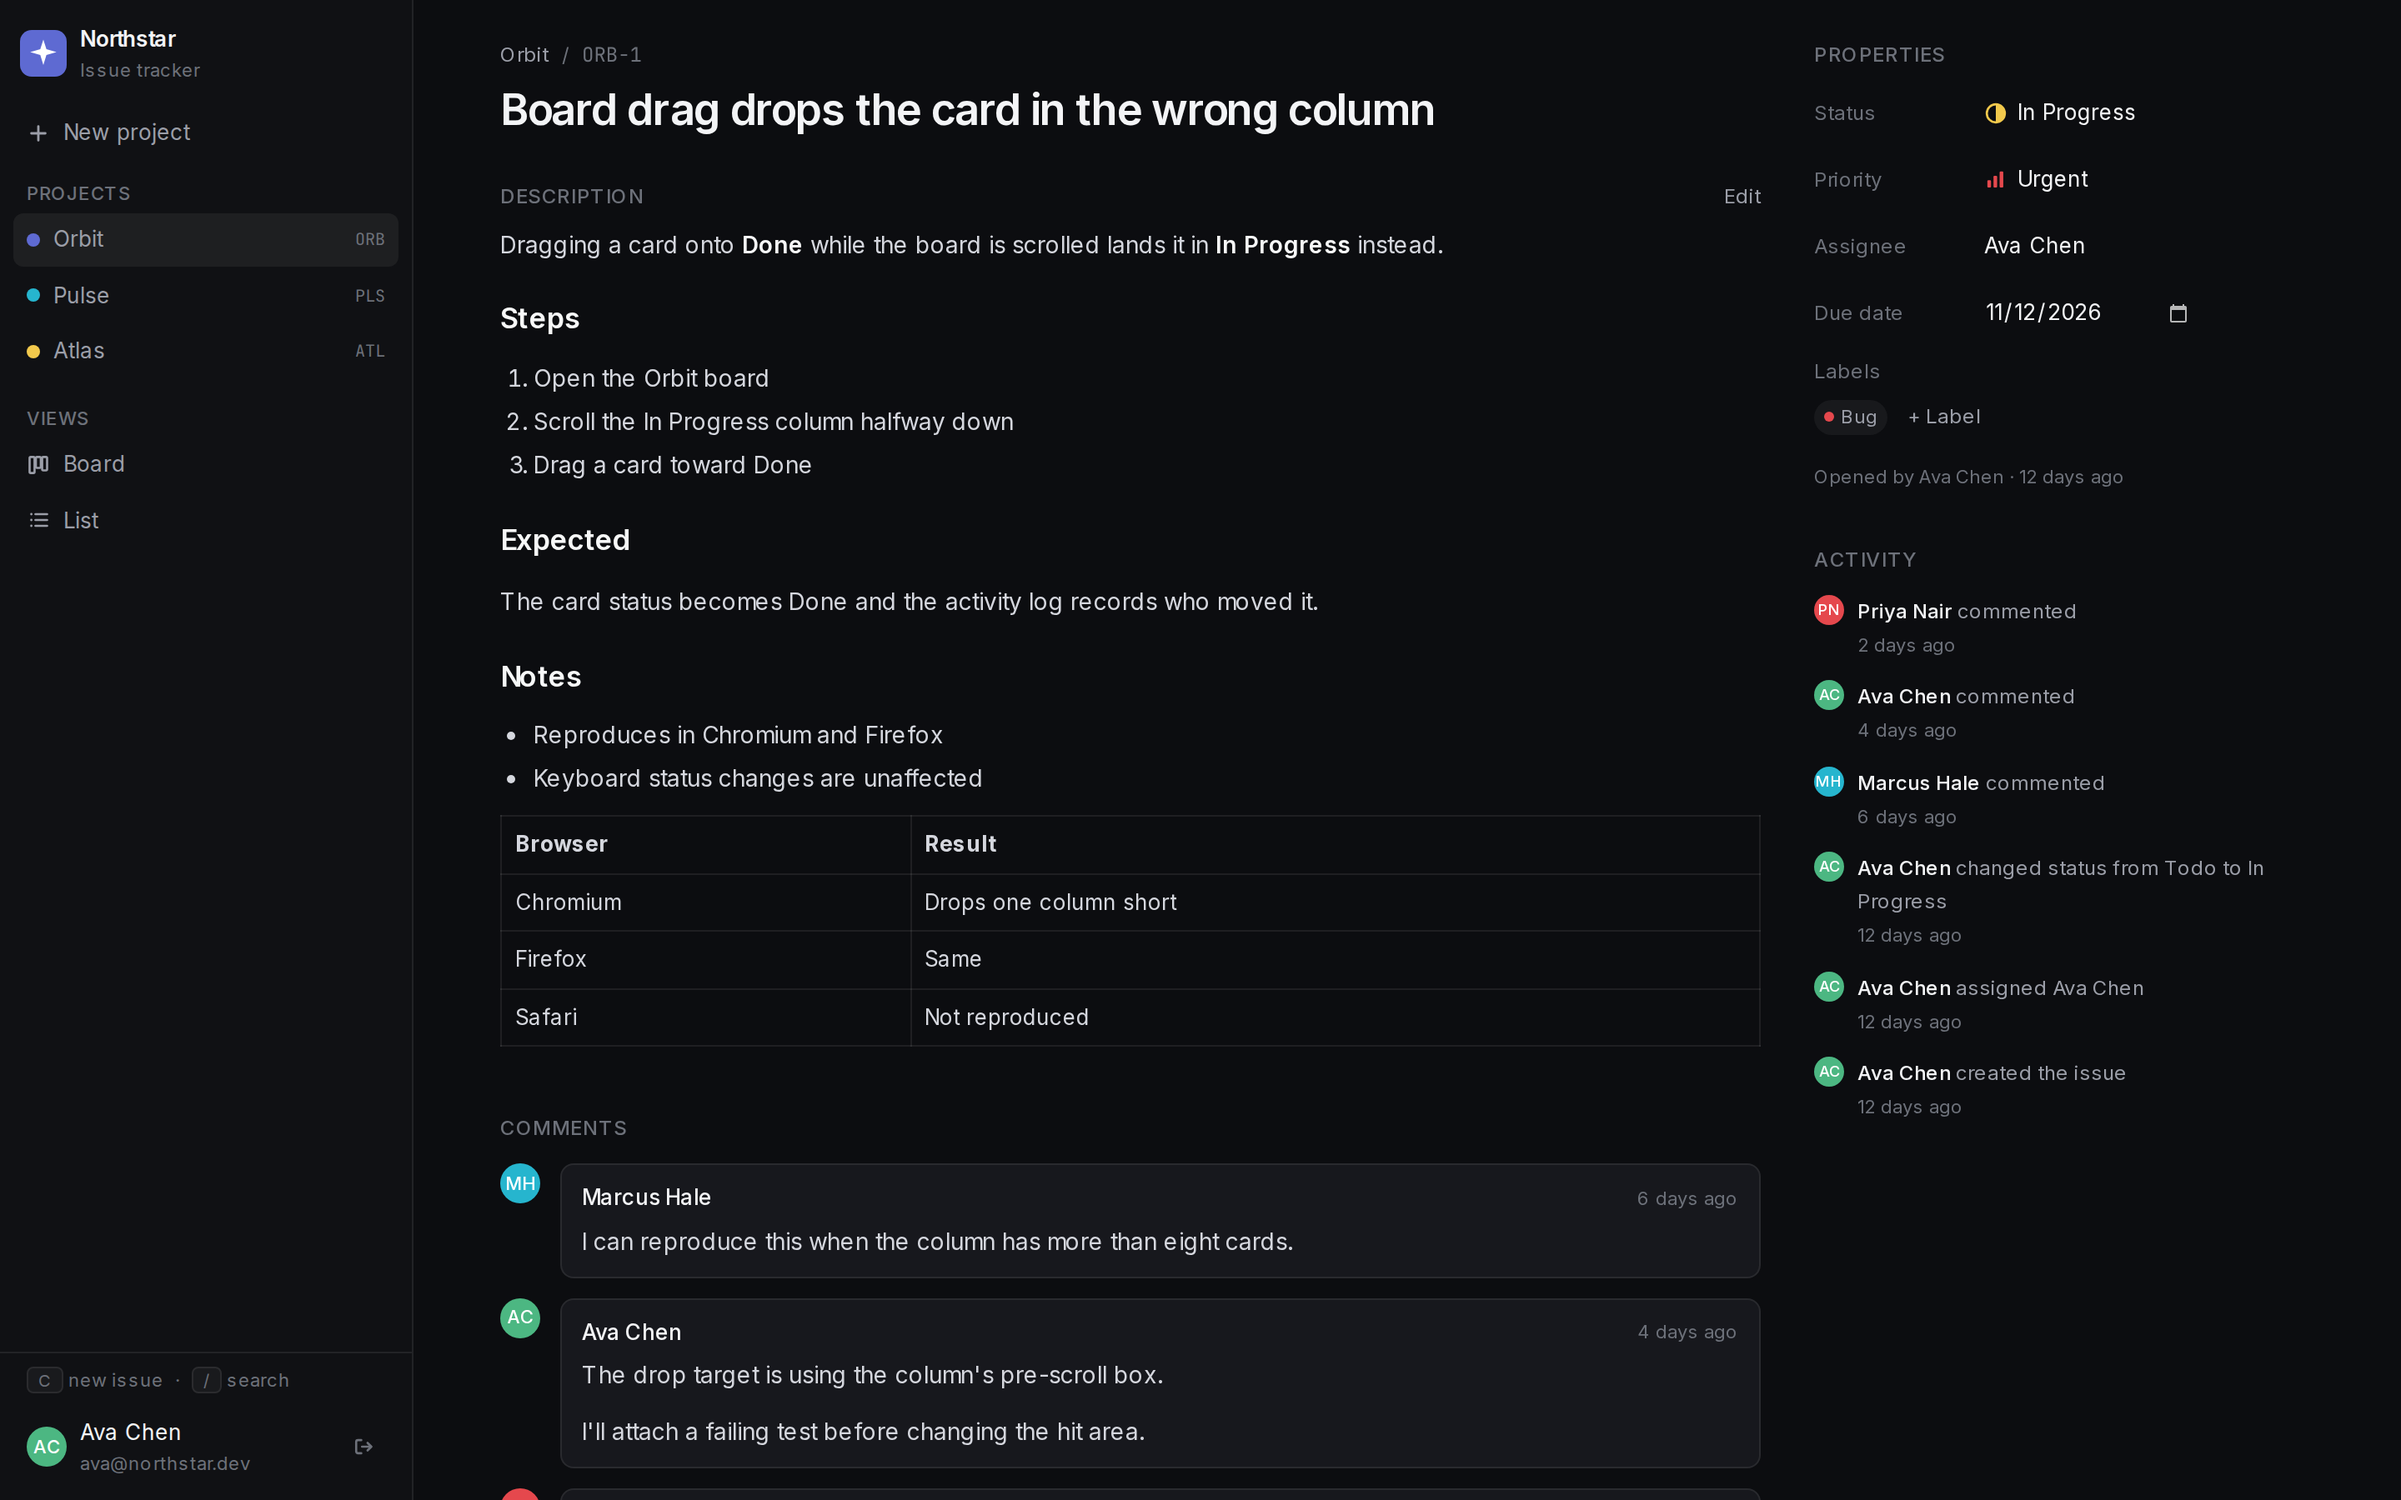
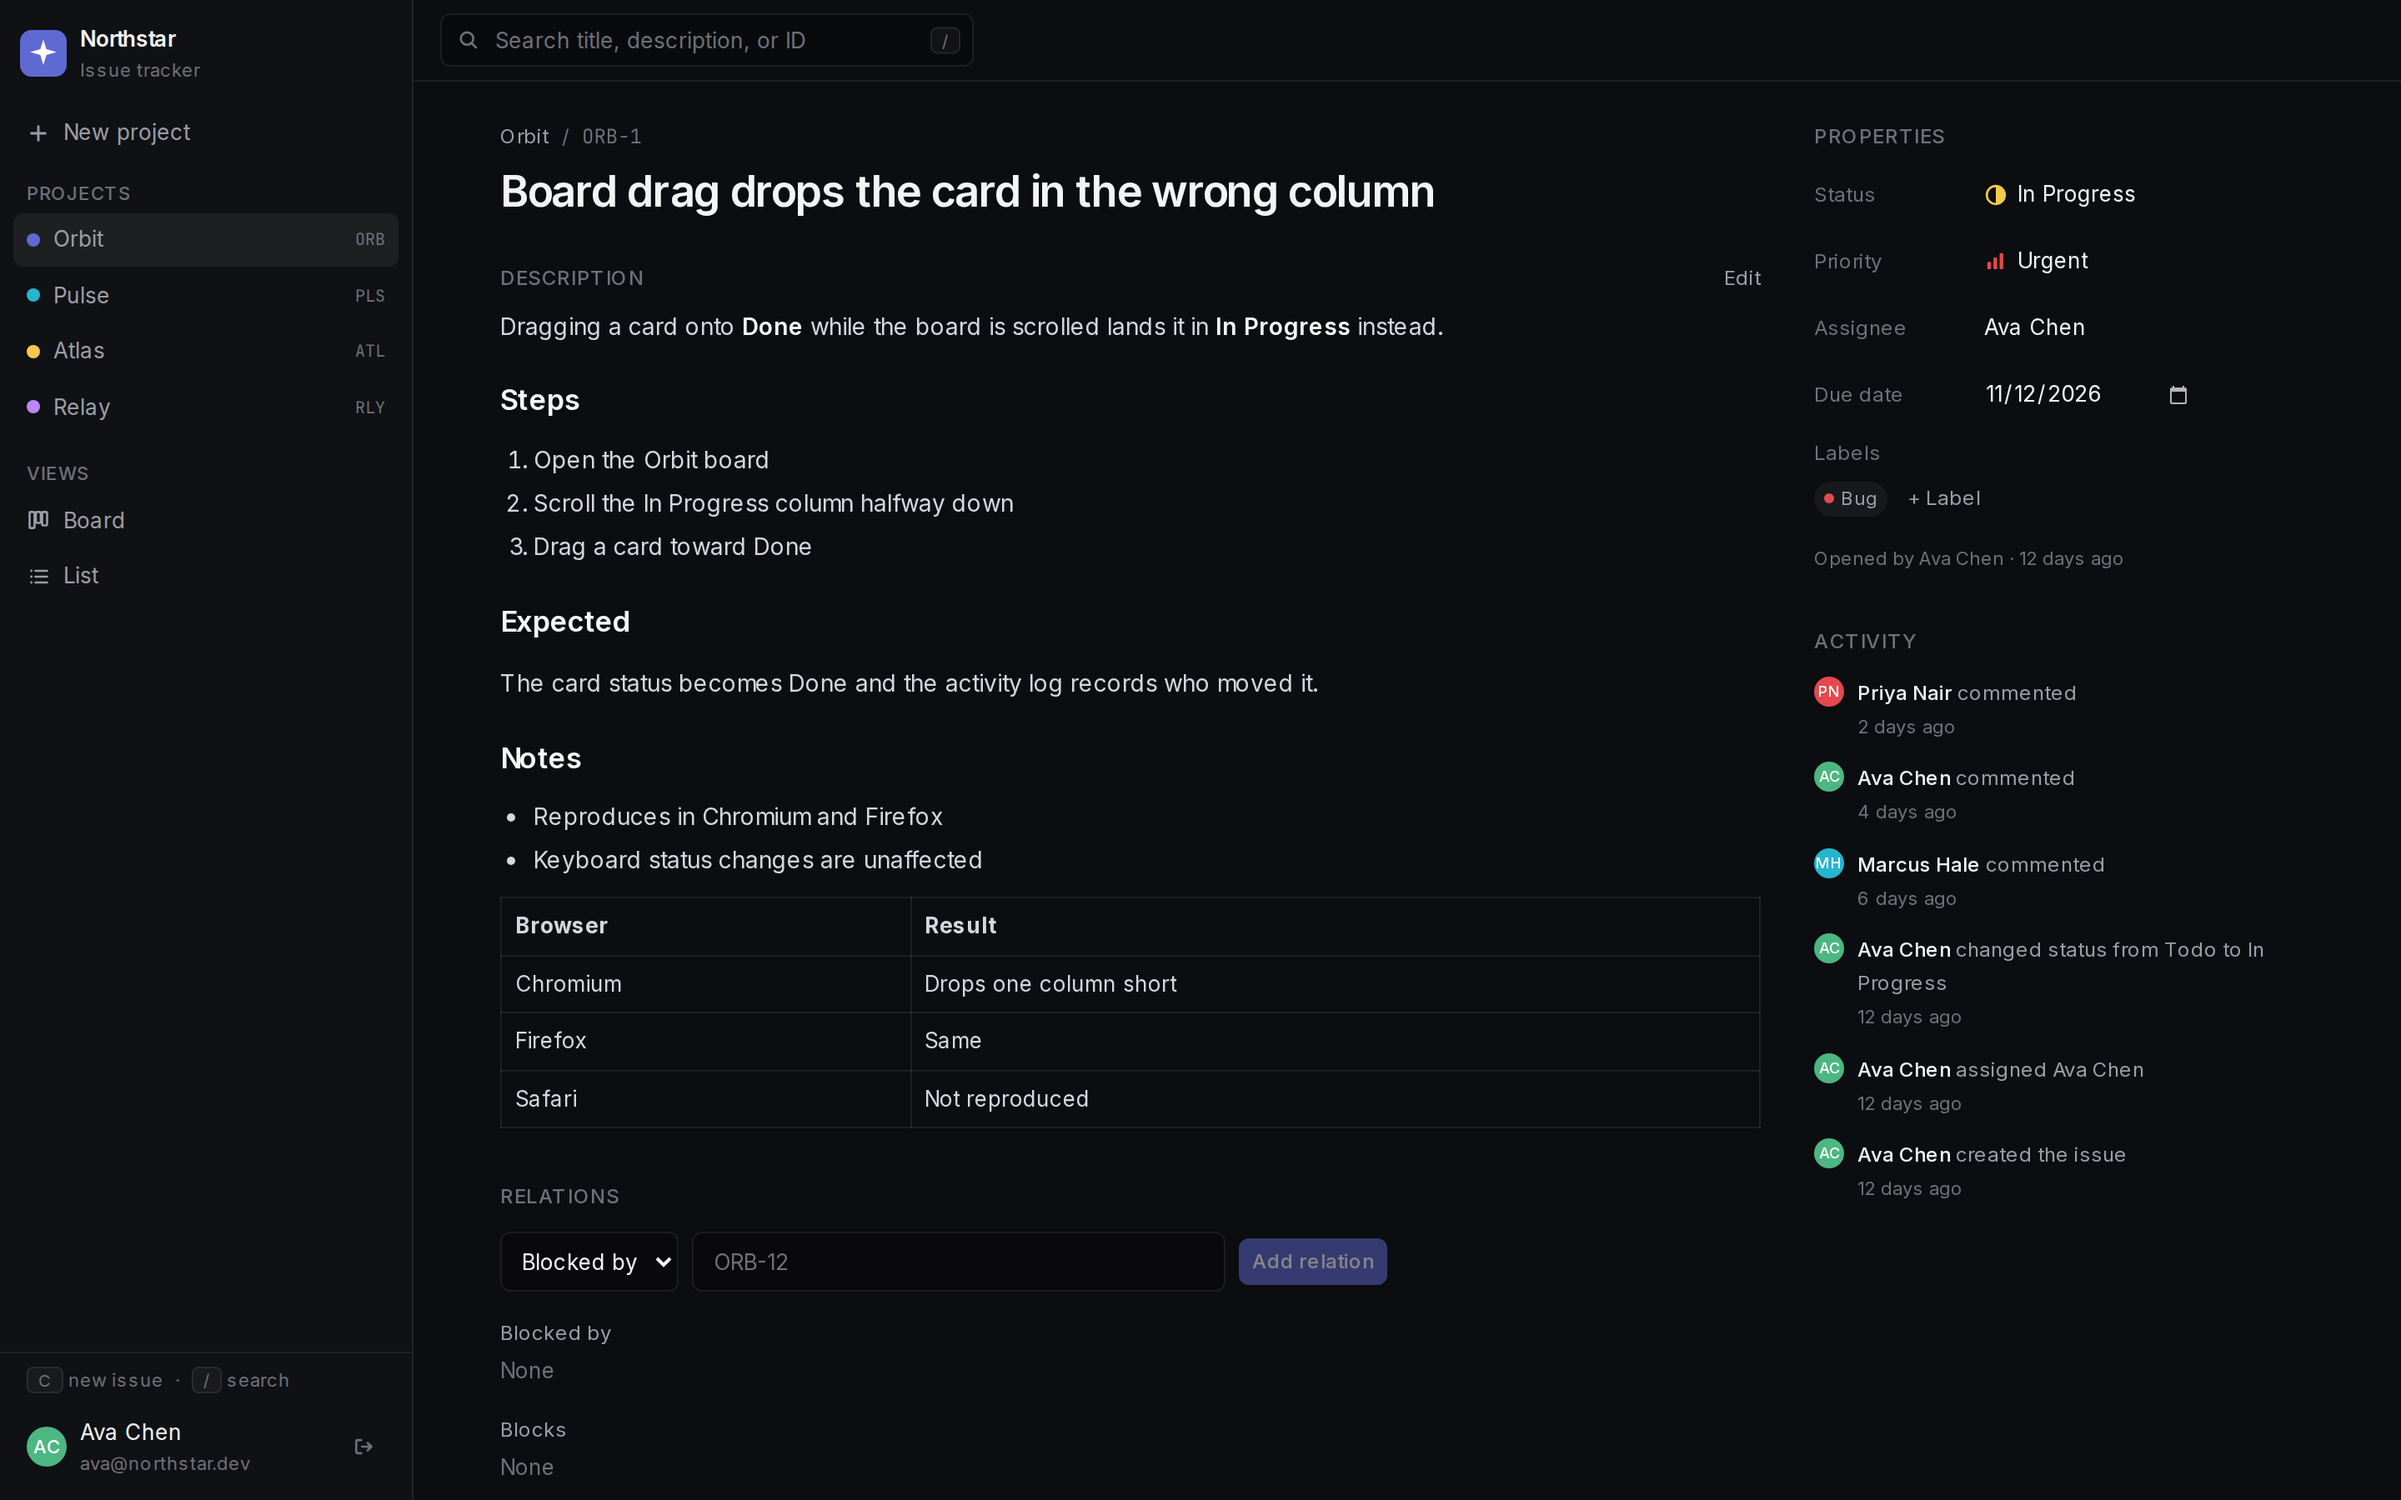
Add screenshots for relations, saved views, batch edits, conflicts, and Relay.
The capture script opens those surfaces against the seeded demo app and removes the temporary view and conflict issue afterward.

diff --git a/scripts/capture-screenshots.ts b/scripts/capture-screenshots.ts
@@ -1,9 +1,72 @@
+import path from "node:path";
 import { mkdir } from "node:fs/promises";
-import { chromium } from "@playwright/test";
-import { DEMO_PASSWORD, PRIMARY_DEMO } from "../src/lib/demo-accounts";
+import { PrismaClient } from "@prisma/client";
+import { chromium, type Browser, type Page } from "@playwright/test";
+import { DEMO_PASSWORD, DEMO_USERS, PRIMARY_DEMO } from "../src/lib/demo-accounts";
 
 const baseURL = process.env.BASE_URL ?? "http://127.0.0.1:3000";
 const outDir = "docs/screenshots";
+const viewName = "Todo + high";
+
+async function signIn(page: Page, email: string = PRIMARY_DEMO.email) {
+  await page.goto(`${baseURL}/login`, { waitUntil: "networkidle" });
+  await page.getByLabel("Email").fill(email);
+  await page.getByLabel("Password").fill(DEMO_PASSWORD);
+  await page.getByRole("button", { name: "Sign in" }).click();
+  await page.waitForURL("**/p/**");
+}
+
+async function shot(page: Page, name: string) {
+  await page.waitForTimeout(300);
+  await page.screenshot({ path: `${outDir}/${name}` });
+}
+
+async function deleteByTitle(fragment: string) {
+  const client = new PrismaClient({
+    datasources: { db: { url: `file:${path.join(process.cwd(), "prisma", "dev.db")}` } },
+  });
+  try {
+    await client.issue.deleteMany({ where: { title: { contains: fragment } } });
+  } finally {
+    await client.$disconnect();
+  }
+}
+
+async function captureConflict(browser: Browser) {
+  const token = "Conflict shot";
+  const original = "Conflict shot original";
+  const marcusTitle = "Conflict shot from Marcus";
+  const avaContext = await browser.newContext({ viewport: { width: 1440, height: 900 }, deviceScaleFactor: 2 });
+  const marcusContext = await browser.newContext({ viewport: { width: 1440, height: 900 }, deviceScaleFactor: 2 });
+  const ava = await avaContext.newPage();
+  const marcus = await marcusContext.newPage();
+  try {
+    await deleteByTitle(token);
+    await signIn(ava);
+    await ava.getByRole("button", { name: "New issue" }).click();
+    await ava.getByPlaceholder("Issue title").fill(original);
+    await ava.getByRole("button", { name: "Create issue" }).click();
+    await ava.getByRole("dialog", { name: "New issue" }).waitFor({ state: "hidden" });
+    await ava.getByRole("link", { name: original }).click();
+    await ava.getByLabel("Title").waitFor();
+    const url = ava.url();
+
+    await signIn(marcus, DEMO_USERS[1]!.email);
+    await marcus.goto(url, { waitUntil: "networkidle" });
+    await marcus.getByLabel("Title").fill(marcusTitle);
+    await marcus.getByLabel("Title").press("Enter");
+    await marcus.getByText("renamed the issue").waitFor();
+
+    await ava.getByLabel("Title").fill("Conflict shot from Ava");
+    await ava.getByLabel("Title").press("Enter");
+    await ava.getByTestId("conflict-prompt").waitFor();
+    await shot(ava, "conflict-dialog.png");
+  } finally {
+    await avaContext.close();
+    await marcusContext.close();
+    await deleteByTitle(token);
+  }
+}
 
 async function main() {
   await mkdir(outDir, { recursive: true });
@@ -11,15 +74,22 @@ async function main() {
   const page = await browser.newPage({ viewport: { width: 1440, height: 900 }, deviceScaleFactor: 2 });
 
   await page.goto(`${baseURL}/login`, { waitUntil: "networkidle" });
-  await page.screenshot({ path: `${outDir}/login.png` });
+  await shot(page, "login.png");
 
   await page.getByLabel("Email").fill(PRIMARY_DEMO.email);
   await page.getByLabel("Password").fill(DEMO_PASSWORD);
   await page.getByRole("button", { name: "Sign in" }).click();
   await page.waitForURL("**/p/ORB");
   await page.getByRole("heading", { name: "Orbit" }).waitFor();
-  await page.waitForTimeout(400);
-  await page.screenshot({ path: `${outDir}/board.png` });
+  await shot(page, "board.png");
+
+  const blocked = page.locator("[data-blocked='true']").first();
+  const blocks = page.locator("[data-blocks='true']").first();
+  await blocked.waitFor();
+  await blocks.waitFor();
+  await blocked.scrollIntoViewIfNeeded();
+  await blocks.scrollIntoViewIfNeeded();
+  await shot(page, "board-with-relations.png");
 
   await page.getByTestId("filter-status").click();
   await page.getByRole("option", { name: "Todo" }).click();
@@ -29,18 +99,51 @@ async function main() {
   await page.keyboard.press("Escape");
   await page.getByTestId("search").fill("cache");
   await page.waitForTimeout(500);
-  await page.screenshot({ path: `${outDir}/filters.png` });
+  await shot(page, "filters.png");
+
+  await page.getByTestId("saved-views").click();
+  const existing = page.getByRole("link", { name: viewName, exact: true });
+  if (await existing.count()) {
+    await page.getByRole("button", { name: `Delete ${viewName}` }).click();
+    await existing.waitFor({ state: "hidden" });
+  }
+  await page.getByTestId("view-name").fill(viewName);
+  await page.getByRole("button", { name: "Save view" }).click();
+  await page.getByRole("link", { name: viewName, exact: true }).waitFor();
+  await shot(page, "saved-views-menu.png");
+  await page.getByRole("button", { name: `Delete ${viewName}` }).click();
+  await page.getByRole("link", { name: viewName, exact: true }).waitFor({ state: "hidden" });
+  await page.keyboard.press("Escape");
 
   await page.goto(`${baseURL}/p/ORB/list`, { waitUntil: "networkidle" });
   await page.getByRole("heading", { name: "Orbit" }).waitFor();
-  await page.waitForTimeout(300);
-  await page.screenshot({ path: `${outDir}/list.png` });
+  await shot(page, "list.png");
+
+  await page.getByTestId("select-ORB-2").click();
+  await page.getByTestId("select-ORB-3").click();
+  await page.getByTestId("selection-count").waitFor();
+  await page.getByTestId("batch-status").waitFor();
+  await shot(page, "batch-operations.png");
 
   await page.goto(`${baseURL}/p/ORB/issues/1`, { waitUntil: "networkidle" });
   await page.locator("#issue-title").waitFor();
   await page.getByTestId("properties").waitFor();
-  await page.waitForTimeout(300);
-  await page.screenshot({ path: `${outDir}/issue-detail.png` });
+  await shot(page, "issue-detail.png");
+
+  const relations = page.locator("[aria-label='Relations']");
+  await page.getByTestId("relations-subissues").getByText("ORB-5").waitFor();
+  await relations.evaluate((node) => node.scrollIntoView({ block: "start" }));
+  await shot(page, "issue-detail-relations.png");
+
+  await page.goto(`${baseURL}/p/RLY`, { waitUntil: "networkidle" });
+  await page.getByRole("heading", { name: "Relay" }).waitFor();
+  await page.getByRole("link", { name: "Relay backlog 01" }).waitFor();
+  await page.getByRole("link", { name: "Relay short todo" }).waitFor();
+  await page.getByTestId("column-in_progress").getByText("No issues").waitFor();
+  await shot(page, "relay-drag-lab.png");
+
+  await page.close();
+  await captureConflict(browser);
 
   await browser.close();
   console.log(`Wrote screenshots to ${outDir}`);

diff --git a/SCREENSHOTS_UPDATE.md b/SCREENSHOTS_UPDATE.md
@@ -1,0 +1,57 @@
+# Screenshots update
+
+## What was done
+
+Extended `scripts/capture-screenshots.ts` and regenerated `docs/screenshots/` against the seeded demo app at http://127.0.0.1:3000 (production `next start`, `prisma/dev.db` reseeded with `npm run db:setup`). The earlier five screenshots are still produced. Six new files were added.
+
+| File | Feature |
+| --- | --- |
+| `docs/screenshots/board-with-relations.png` | Orbit board with Blocks on ORB-3 and Blocked on ORB-2 |
+| `docs/screenshots/issue-detail-relations.png` | ORB-1 relations section, including sub-issue ORB-5 |
+| `docs/screenshots/saved-views-menu.png` | Saved-views menu after creating "Todo + high" from the Todo, High, and `cache` filters, with Rename, Set default, and Delete |
+| `docs/screenshots/batch-operations.png` | List after selecting ORB-2 and ORB-3, with the batch bar (status, assignee, add label, remove label, delete) |
+| `docs/screenshots/conflict-dialog.png` | Ava's later title save, stopped because Marcus saved first, with Reload and Overwrite |
+| `docs/screenshots/relay-drag-lab.png` | Relay board: 12 Backlog cards, one Todo card, an empty In Progress column, and 8 Done cards |
+
+## Script changes
+
+`scripts/capture-screenshots.ts` still signs in as Ava and writes `login.png`, `board.png`, `filters.png`, `list.png`, and `issue-detail.png`.
+
+- After the plain board shot, it scrolls the first Blocked marker and the first Blocks marker into view and writes `board-with-relations.png`.
+- After the filter shot, it opens Saved views, deletes a leftover "Todo + high" view if one exists, saves that name, screenshots the open menu, then deletes the view so a later run does not keep it.
+- On the list, it selects ORB-2 and ORB-3 and writes `batch-operations.png`.
+- On ORB-1 it scrolls the Relations section to the top and writes `issue-detail-relations.png`.
+- It opens `/p/RLY`, waits for Relay backlog 01, Relay short todo, and the empty In Progress column, and writes `relay-drag-lab.png`.
+- `captureConflict` signs in as Ava and Marcus in two browser contexts, creates "Conflict shot original", has Marcus rename it, then has Ava save a different title. It screenshots Ava's conflict dialog and deletes every issue whose title contains "Conflict shot".
+
+## Verification method
+
+1. `npm run db:setup` so `prisma/dev.db` matches the demo seed.
+2. `npm run start -- -p 3000`.
+3. `npx tsx scripts/capture-screenshots.ts`, twice.
+4. Read each new PNG and confirm the feature named above is on screen.
+5. `sqlite3 prisma/dev.db` counts for leftover "Conflict shot" issues and the "Todo + high" view.
+6. `npx tsc --noEmit` so the script still typechecks.
+
+## Evidence
+
+Both script runs exited 0 and printed `Wrote screenshots to docs/screenshots`. The second run is the committed set.
+
+Visual check of that set:
+
+- `board-with-relations.png`: Todo shows ORB-3 with Blocks and ORB-2 with Blocked.
+- `issue-detail-relations.png`: Relations form, and Sub-issues lists ORB-5 "Keyboard shortcuts ignore the filter bar".
+- `saved-views-menu.png`: the menu is open on the filtered board, the name field is visible, and "Todo + high" is listed with Rename, Set default, and Delete. The button reads "Saved views 1".
+- `batch-operations.png`: "2 selected", Status, Assignee, Add label, Remove label, and Delete. ORB-3 and ORB-2 are checked.
+- `conflict-dialog.png`: dialog title "This issue changed", body naming Marcus Hale, Reload and Overwrite. The activity list also shows "Marcus Hale renamed the issue". The same capture succeeded on the run before this one.
+- `relay-drag-lab.png`: Backlog 12, Todo 1 ("Relay short todo"), In Progress 0 ("No issues"), Done 8.
+
+After the second run, `Issue` rows whose title contains "Conflict shot": 0. `SavedView` rows named "Todo + high": 0.
+
+## Problems found
+
+The conflict dialog is reproducible. Both captures showed it. The second image still has a small "Created ORB-21" toast in the corner from creating the throwaway issue. It does not cover the dialog. The throwaway issue is deleted after the shot. No screenshot was skipped.
+
+## Committed
+
+The six PNGs, the script, this note, and the README Screenshots section are committed on `cursor/linear-issue-tracker-ef1d`.

diff --git a/README.md b/README.md
@@ -38,6 +38,30 @@ Issue detail, with Markdown, comments, properties, and activity:
 
 ![Issue detail](docs/screenshots/issue-detail.png)
 
+Board cards mark blocking relationships. ORB-3 blocks ORB-2, so the Todo column shows Blocks and Blocked:
+
+![Board with relation markers](docs/screenshots/board-with-relations.png)
+
+The issue page lists blocked by, blocks, related, the parent, and sub-issues. ORB-1 has ORB-5 as a sub-issue:
+
+![Issue relations and sub-issues](docs/screenshots/issue-detail-relations.png)
+
+Saved views can be named from the current filters and switched later. This one stores Todo, High, and the keyword `cache`:
+
+![Saved views menu](docs/screenshots/saved-views-menu.png)
+
+Selecting more than one issue opens the batch bar for status, assignee, labels, or delete:
+
+![Batch operations](docs/screenshots/batch-operations.png)
+
+If someone else saved the issue first, the later save stops and offers Reload or Overwrite:
+
+![Conflict dialog](docs/screenshots/conflict-dialog.png)
+
+Relay is the drag lab: a long Backlog, one Todo card, an empty In Progress column, and a long Done column:
+
+![Relay drag lab](docs/screenshots/relay-drag-lab.png)
+
 ## Tech stack
 
 - Next.js 15 App Router, React 19, TypeScript
